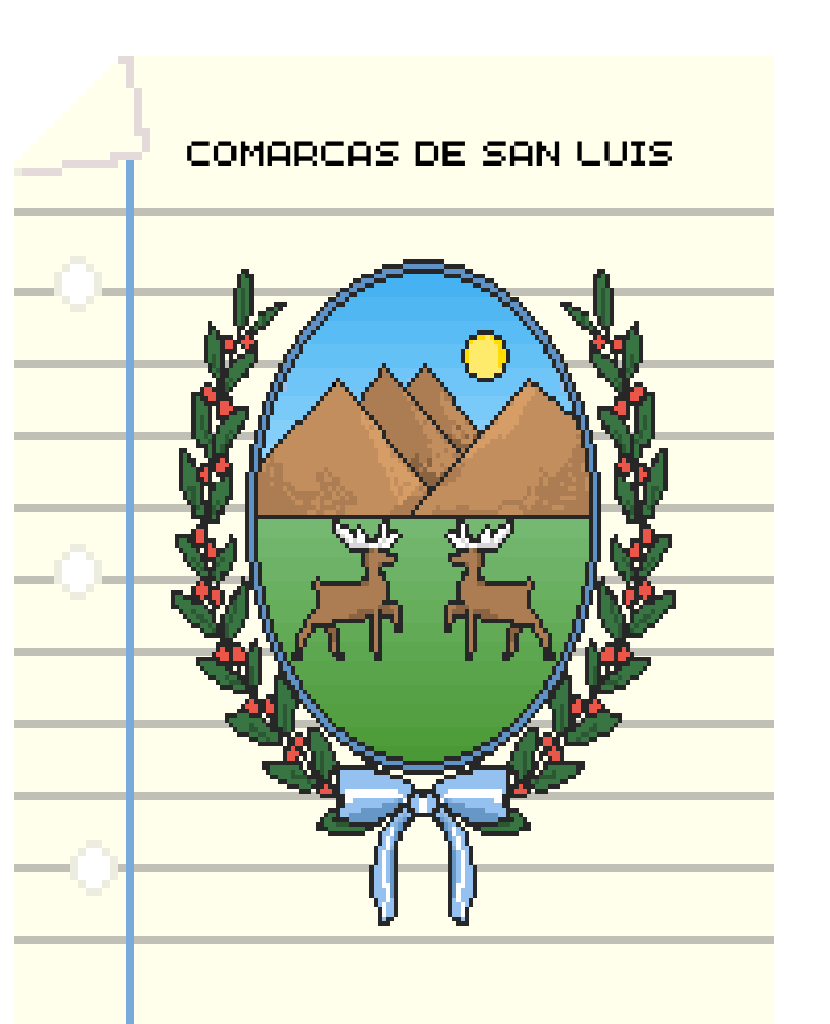
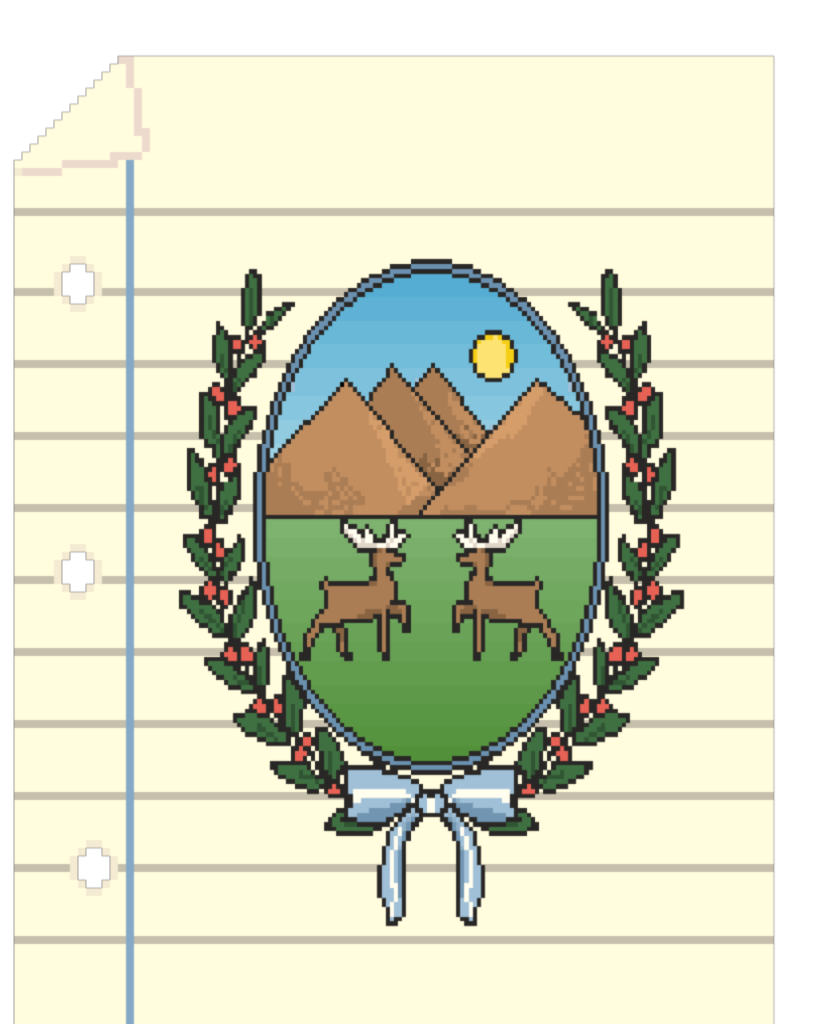
cambios esteticos home

diff --git a/src/public/css/home.css b/src/public/css/home.css
@@ -7,6 +7,7 @@ body {
   min-height: 100%;
   overflow-x: hidden;
   font-family: "Press Start 2P", monospace;
+  
   background-image: url("/img/degradeNaranja1.PNG");
 }
 
@@ -47,7 +48,7 @@ main.app-main {
 .logo-container {
   margin-top: 30px;
   width: 510px;
-  height: 810px;
+  height: auto;
   flex-shrink: 0;
 }
 
@@ -81,10 +82,11 @@ main.app-main {
   padding: 36px 40px;
   text-align: center;
 
-  background:#fead85;
+  background:#FFEEB3;
 
   /* quitamos el borde sólido */
-  border: solid black;
+  border: 4px solid #00c6d9;
+  /*box-shadow: 5px 5px 0 #01b4c4;*/
 
   /* glow celeste degradado */
   /*
@@ -191,6 +193,7 @@ main.app-main {
   .home-container {
     gap: 48px;
     padding: 32px 20px;
+    
   }
 
   .logo-container {

diff --git a/src/public/css/navbar.css b/src/public/css/navbar.css
@@ -12,7 +12,7 @@ body {
    NAVBAR BASE
 =========================== */
 .navbar {
-  background: linear-gradient(180deg, #fead85, #fead85ea) !important;
+  background: linear-gradient(180deg, #FFEEB3, #FFEEB3) !important;
   padding: 15px 40px;
   font-family: "Press Start 2P", monospace !important;
 
